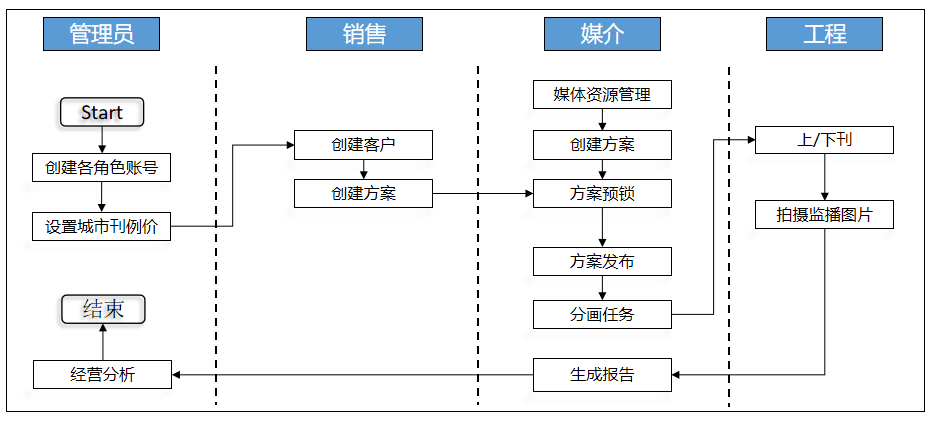
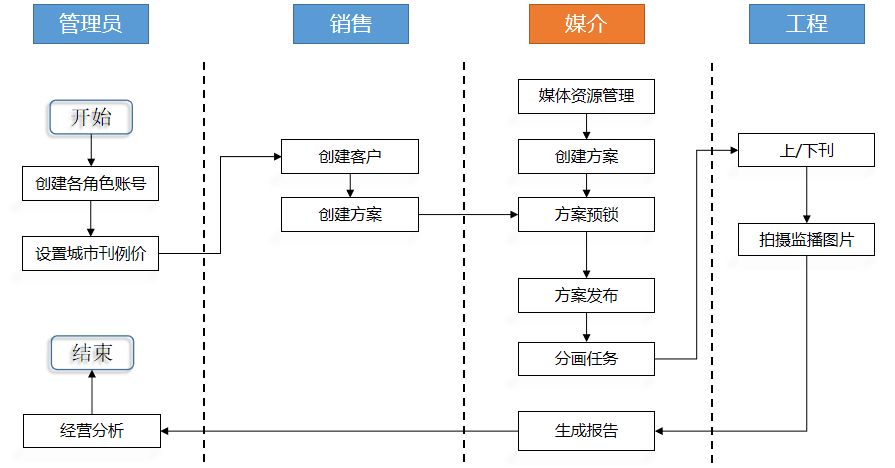
样式优化

diff --git a/src/components/common/resContrastMap.vue b/src/components/common/resContrastMap.vue
@@ -114,7 +114,7 @@
             // 初始化地图
             initMap() {
                 let that = this
-                console.log('初始化地图----')
+                // console.log('初始化地图----')
                 // 创建Map实例
                 this.resMap = new window.BMap.Map("resMap", {enableMapClick: false});
                 console.log('resMap', this.resMap)
@@ -207,10 +207,7 @@
                 this.resMap.setCurrentCity(city);
                 // 初始化地图,设置中心点坐标和地图级别
                 this.resMap.centerAndZoom(city, 11);
-                this.resMap.removeOverlay(this.QLpointCollection)
-                this.resMap.removeOverlay(this.FZpointCollection)
-                this.resMap.removeOverlay(this.XCpointCollection)
-                this.resMap.removeOverlay(this.XYMpointCollection)
+                this.clearMarkers()
                 this.selectArea = [];
                 this.getArea(this.selectCity)
                 console.log(this.companyCheckbox);
@@ -224,11 +221,7 @@
             // 选择区域
             filterArea() {
                 // console.log('区域', this.selectArea)
-                // this.resMap.removeOverlay(that.mapLabel)
-                this.resMap.removeOverlay(this.QLpointCollection)
-                this.resMap.removeOverlay(this.FZpointCollection)
-                this.resMap.removeOverlay(this.XCpointCollection)
-                this.resMap.removeOverlay(this.XYMpointCollection)
+               this.clearMarkers()
                 // this.getData()
                 if (this.companyCheckbox.length > 0) {
                     for (let data of this.companyCheckbox) {
@@ -236,9 +229,21 @@
                     }
                 }
             },
+            //清空marker
+            clearMarkers(){
+                this.resMap.removeOverlay(this.QLpointCollection)
+                this.resMap.removeOverlay(this.FZpointCollection)
+                this.resMap.removeOverlay(this.XCpointCollection)
+                this.resMap.removeOverlay(this.XYMpointCollection)
+            },
             //选择资源类型
             filterResType() {
-                console.log('类型', this.selectResType)
+                this.clearMarkers()
+                if (this.companyCheckbox.length > 0) {
+                    for (let data of this.companyCheckbox) {
+                        this.getData(data)
+                    }
+                }
             },
             //选择公司
             chooseCompany(e, id) {
@@ -558,6 +563,9 @@
         font-size: 16px;
         color: rgba(0, 0, 0, 0.85);
         cursor: pointer;
+    }
+    .radio-group /deep/  .el-checkbox__input.is-disabled+span.el-checkbox__label{
+        color: #c0c4cc !important;
     }
 
 </style>

diff --git a/src/components/superOperate/superOperate_index.vue b/src/components/superOperate/superOperate_index.vue
@@ -4,11 +4,11 @@
         <home-top :user-info="userInfo" :data-arr="dataArr" :honor-img="companyHonor"></home-top>
         <div style="margin:24px 0;display:flex">
             <!--isPlatform-->
-            <div :class="isPlatform ? 'use_module' : 'platFrom_use_module'">
+            <div :class="isPlatform ? 'use_module' : 'platFrom_use_module'" style="border: 1px solid #e5e6e9;">
                 <h2 class="h2_style">常用模块</h2>
                 <home-link :link="linkArr"></home-link>
             </div>
-            <div v-if="isPlatform" style="width:33%; margin-left:24px;background:#fff;">
+            <div v-if="isPlatform" style="width:33%; margin-left:24px;background:#fff;border: 1px solid #e5e6e9;">
                 <h2 class="h2_style">勋章墙</h2>
                 <div class="loglist_box">
                     <div class="info_box">
@@ -42,7 +42,7 @@
                     @change="changeMonthToCompare('end')">
                 </el-date-picker>
             </div>
-            <el-tabs style="height: 440px;" v-model="activeTabsName" @tab-click="tabHandleClick">
+            <el-tabs style="height: 440px;border: 1px solid #e5e6e9;" v-model="activeTabsName" @tab-click="tabHandleClick">
                 <el-tab-pane label="成交金额" name="price">
                    <div id="price_bar_box"
                         v-loading="priceBoxLoading"
@@ -241,7 +241,7 @@
     import sessFun from '../../commonFun/sessFun.js'
     import api from "../../api/api";
     import indexIsDateFirst from '../../commonFun/indexIsDateFirst.js';
-    
+
     export default {
         name: "admin_index",
         data() {
@@ -552,7 +552,7 @@
             getDataByAsrID(){
                 if (this.isRetailCompany) {
                     // 直营公司收入排名(超级运营排行弹窗) GetPdIncomeCount
-                    let nowDate = timeFormat.toDate(new Date(), '/');		
+                    let nowDate = timeFormat.toDate(new Date(), '/');
                     if(indexIsDateFirst.getIsFirst(this.sessionData.uID, nowDate)){
                         this.getPdIncomeCountByID()
                     }
@@ -1481,6 +1481,7 @@
         height: 608px;
         width: 100%;
         background: #fff;
+        border: 1px solid #e5e6e9;
     }
     .results_runway_title{
         font-family:PingFangSC-Medium;

diff --git a/src/components/superOperate/superOperateCommon.vue b/src/components/superOperate/superOperateCommon.vue
@@ -10,7 +10,7 @@
             background-color="#444"
             text-color="#999999"
             active-text-color="#fff">
-            <el-menu-item index="" style="cursor: default">
+            <el-menu-item index="" class="no-hover" style="cursor: default">
                 <div class="logo_box">
                     <img src="../../assets/images/logo.png" alt="">
                 </div>
@@ -43,7 +43,7 @@
                 <template slot="title">亲邻智邻</template>
                 <el-menu-item index="/superOperate/communityPortrait">社区画像</el-menu-item>
                 <el-menu-item index="/superOperate/communityRank">社区排名</el-menu-item>
-                <el-menu-item index="/resContrastMap" target="_blank">资源对比</el-menu-item>
+                <el-menu-item index="/resContrastMap" >资源对比</el-menu-item>
             </el-submenu>
             <!--<el-menu-item index="/superOperate/communityPortrait" v-show="showQinlin">亲邻智邻</el-menu-item>-->
             <el-submenu index="9" class="user_center" popper-class="user_center_item" :show-timeout="80">
@@ -55,7 +55,7 @@
                 <!--<el-menu-item index="" @click.native="openWxBox = true">微信授权</el-menu-item>-->
                 <el-menu-item index="/login">退出登陆</el-menu-item>
             </el-submenu>
-            <el-menu-item index="" style="cursor: default;float: right;padding: 0 0 0 4px">
+            <el-menu-item class="no-hover" index="" style="cursor: default;float: right;padding: 0 0 0 4px">
                 <questionTip></questionTip>
             </el-menu-item>
 
@@ -178,6 +178,12 @@
                 // 退出登录
                 if(key === '/login'){
                     sessionStorage.clear();
+                }
+                if(key=='/resContrastMap'){
+                    const {href} = this.$router.resolve({
+                        path: '/resContrastMap',
+                    })
+                    window.open(href, '_blank')
                 }
             },
         },

diff --git a/src/components/common/components/messageNotice.vue b/src/components/common/components/messageNotice.vue
@@ -43,9 +43,10 @@
                     消息列表
                 </div>
             </div>
-            <el-badge slot="reference" :value="messageList.unread" :max="99">
+            <el-badge v-if="messageList.unread>0" slot="reference" :value="messageList.unread" :max="99">
                 <i class="el-icon-bell" style="color: #fff;font-size: 20px"></i>
             </el-badge>
+            <i v-else slot="reference" class="el-icon-bell" style="color: #fff;font-size: 20px"></i>
         </el-popover>
     </div>
 </template>
@@ -61,7 +62,7 @@
                 page: 1,
                 maxPage: 0,
                 messageList: {
-                    unread: 0,
+                    unread: 1,
                     allTxt: 0,
                     list: [],
                     unreadlist:[]
@@ -347,4 +348,26 @@
     }
 
 
+</style>
+<style>
+    .popper /deep/.el-badge__content{
+        background-color: #ff4141;
+        border-radius: 10px;
+        color: #fff;
+        display: inline-block;
+        font-size: 12px;
+        height: 12px;
+        line-height: 12px;
+        padding: 0px 6px;
+        text-align: center;
+        white-space: nowrap;
+        border: 1px solid #fff;
+    }
+    .popper /deep/ .el-badge__content.is-fixed{
+        position: absolute;
+        top: 3px;
+        right: 20px;
+        -webkit-transform: translateY(-50%) translateX(100%);
+        transform: translateY(-50%) translateX(100%);
+    }
 </style>

diff --git a/src/components/media/mediaCommon.vue b/src/components/media/mediaCommon.vue
@@ -10,7 +10,7 @@
             background-color="#444"
             text-color="#999999"
             active-text-color="#fff">
-            <el-menu-item index="" style="cursor: default">
+            <el-menu-item index="" class="no-hover" style="cursor: default">
                 <div class="logo_box">
                     <img src="../../assets/images/logo.png" alt="">
                 </div>
@@ -48,10 +48,10 @@
                 <!--<el-menu-item index="" @click.native="openWxBox = true">微信授权</el-menu-item>-->
                 <el-menu-item index="/login">退出登陆</el-menu-item>
             </el-submenu>
-            <el-menu-item index="" style="cursor: default;float: right;padding: 0 0 0 4px">
+            <el-menu-item class="no-hover" index="" style="cursor: default;float: right;padding: 0 0 0 4px">
                 <messageNotice></messageNotice>
             </el-menu-item>
-            <el-menu-item index="" style="cursor: default;float: right;padding: 0 0 0 4px">
+            <el-menu-item class="no-hover" index="" style="cursor: default;float: right;padding: 0 0 0 4px">
                 <questionTip></questionTip>
             </el-menu-item>
         </el-menu>

diff --git a/src/components/sale/saleCommon.vue b/src/components/sale/saleCommon.vue
@@ -10,7 +10,7 @@
             background-color="#444"
             text-color="#999999"
             active-text-color="#fff">
-            <el-menu-item index="" style="cursor: default">
+            <el-menu-item index="" class="no-hover" style="cursor: default">
                 <div class="logo_box">
                     <img src="../../assets/images/logo.png" alt="">
                 </div>
@@ -44,10 +44,10 @@
                 <!--<el-menu-item index="" @click.native="openWxBox = true">微信授权</el-menu-item>-->
                 <el-menu-item index="/login">退出登陆</el-menu-item>
             </el-submenu>
-            <el-menu-item index="" style="cursor: default;float: right;padding: 0 0 0 4px">
+            <el-menu-item class="no-hover" index="" style="cursor: default;float: right;padding: 0 0 0 4px">
                 <messageNotice></messageNotice>
             </el-menu-item>
-            <el-menu-item index="" style="cursor: default;float: right;padding: 0 0 0 4px">
+            <el-menu-item class="no-hover" index="" style="cursor: default;float: right;padding: 0 0 0 4px">
                 <questionTip></questionTip>
             </el-menu-item>
         </el-menu>

diff --git a/src/components/media/media_index.vue b/src/components/media/media_index.vue
@@ -3,11 +3,11 @@
 		<div class="ad_index_container">
 			<home-top :user-info="userInfo" :data-arr="dataArr" :honor-img="companyHonor"></home-top>
 			<div style="margin:24px 0;display:flex;">
-				<div style="width:66%;">
+				<div style="width:66%;border: 1px solid #e5e6e9;">
 					<h2 class="h2_style">常用模块</h2>
 					<home-link :link="linkArr"></home-link>
 				</div>
-				<div style="width:33%; margin-left:24px;background:#fff;">
+				<div style="width:33%; margin-left:24px;background:#fff;border: 1px solid #e5e6e9;">
 					<h2 :class="isCom?'com_style':'h2_style'">个人荣誉</h2>
 					<div :class="isCom?'com_loglistBox':'loglist_box'">
 						<el-row style="text-align:center;">
@@ -28,7 +28,7 @@
 					</template>
 				</div>
 			</div>
-			<div style="margin:24px 0; background:#fff;padding-bottom: 24px;">
+			<div style="margin:24px 0; background:#fff;padding-bottom: 24px;border: 1px solid #e5e6e9;">
 				<h2 class="h2_style flex_box">
 					<b>业绩指标</b>
 					<span style="margin-right:24px;">

diff --git a/src/components/sale/sale_index.vue b/src/components/sale/sale_index.vue
@@ -3,11 +3,11 @@
 		<div class="ad_index_container">
 			<home-top :user-info="userInfo" :data-arr="dataArr" :honor-img="companyHonor"></home-top>
 			<div style="margin:24px 0;display:flex;">
-				<div style="width:66%;">
+				<div style="width:66%;border: 1px solid #e5e6e9;">
 					<h2 class="h2_style">常用模块</h2>
 					<home-link :link="linkArr"></home-link>
 				</div>
-				<div style="width:33%; margin-left:24px;background:#fff;">
+				<div style="width:33%; margin-left:24px;background:#fff;border: 1px solid #e5e6e9;">
 					<h2 class="h2_style">您的助手</h2>
 					<div class="loglist_box">
 						<p class="time_box">
@@ -23,7 +23,7 @@
 					</div>
 				</div>
 			</div>
-			<div style="margin:24px 0; background:#fff;">
+			<div style="margin:24px 0; background:#fff;border: 1px solid #e5e6e9;">
 				<h2 class="h2_style">业绩进度 <span class="span_rank">单位为：万</span></h2>
 				<div style=" width:96%; margin:24px auto;position:relative;" v-if="isShowLine">
 

diff --git a/src/components/operate/operateCommon.vue b/src/components/operate/operateCommon.vue
@@ -10,7 +10,7 @@
             background-color="#444"
             text-color="#999999"
             active-text-color="#fff">
-            <el-menu-item index="">
+            <el-menu-item index="" class="no-hover">
                 <div class="logo_box">
                     <img src="../../assets/images/logo.png" alt="">
                 </div>
@@ -43,7 +43,7 @@
                 <!--<el-menu-item index="" @click.native="openWxBox = true">微信授权</el-menu-item>-->
                 <el-menu-item index="/login">退出登陆</el-menu-item>
             </el-submenu>
-            <el-menu-item index="" style="cursor: default;float: right;padding: 0 0 0 4px">
+            <el-menu-item class="no-hover" index="" style="cursor: default;float: right;padding: 0 0 0 4px">
                 <questionTip></questionTip>
             </el-menu-item>
         </el-menu>

diff --git a/src/components/common/components/questionTip.vue b/src/components/common/components/questionTip.vue
@@ -19,7 +19,8 @@
                     {{item.name}}
                 </li>
             </ul>
-            <i slot="reference" class="el-icon-question" @click="showActions"></i>
+            <!--<i slot="reference" class="el-icon-question" @click="showActions"></i>-->
+            <img slot="reference" class="quesition-icon" src="../../../assets/images/question_icon.png"></img>
         </el-popover>
         <!--问题列表对话框-->
         <el-dialog class="question-dialog" :title="modalInfo.title" :visible.sync="dialogTableVisible" width="35%">
@@ -319,6 +320,11 @@
 
     .modal-list:last-child {
         margin-bottom: 0;
+    }
+    .quesition-icon{
+        width: 20px;
+        height: 20px;
+        cursor: pointer;
     }
 
 </style>

diff --git a/src/components/common/components/homeTop.vue b/src/components/common/components/homeTop.vue
@@ -94,6 +94,7 @@ export default {
         margin: 0 auto;
         height: 140px;
         background: #fff;
+        border: 1px solid #e5e6e9;
     }
     .dl_style{
         display: inline-block;

diff --git a/static/css/public.css b/static/css/public.css
@@ -291,4 +291,7 @@
     position: relative;
     margin-bottom: 24px;
 }
-
+/*某些菜单样式*/
+.no-hover{
+    background-color: rgb(68, 68, 68) !important;
+}
